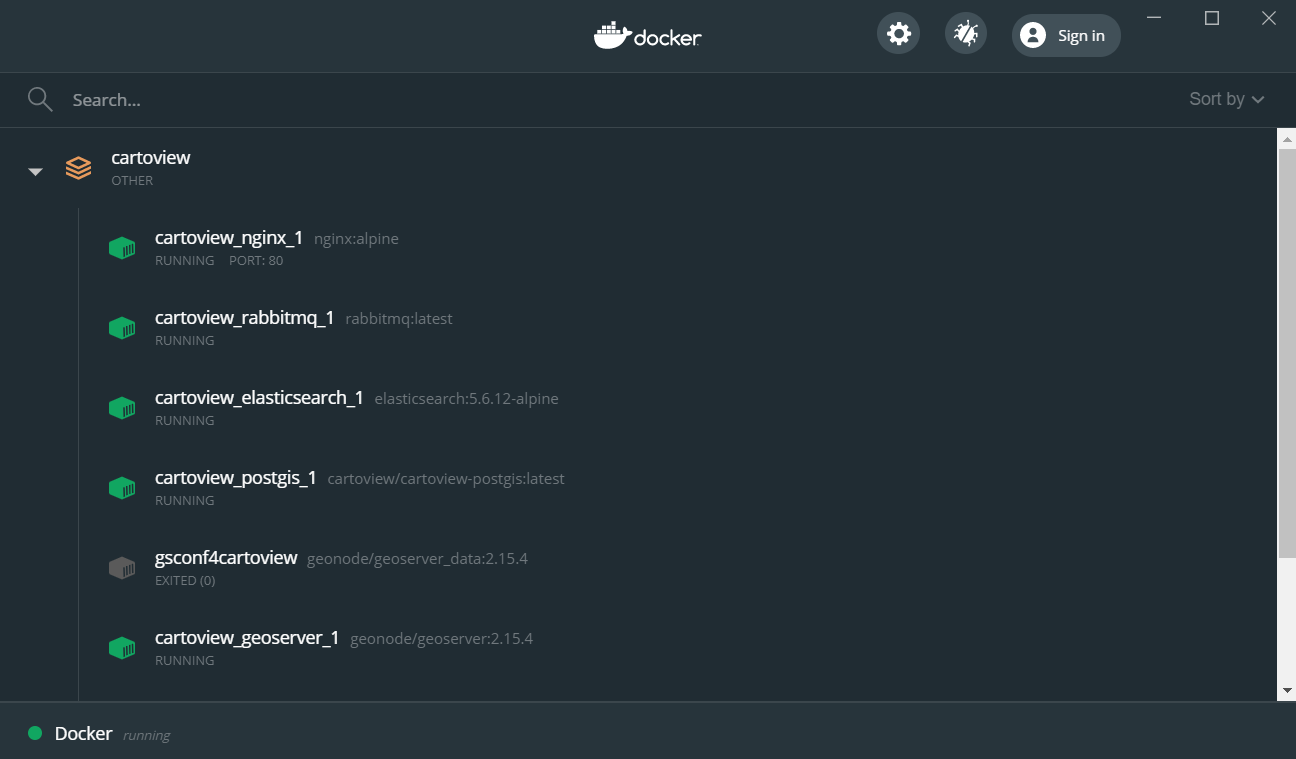
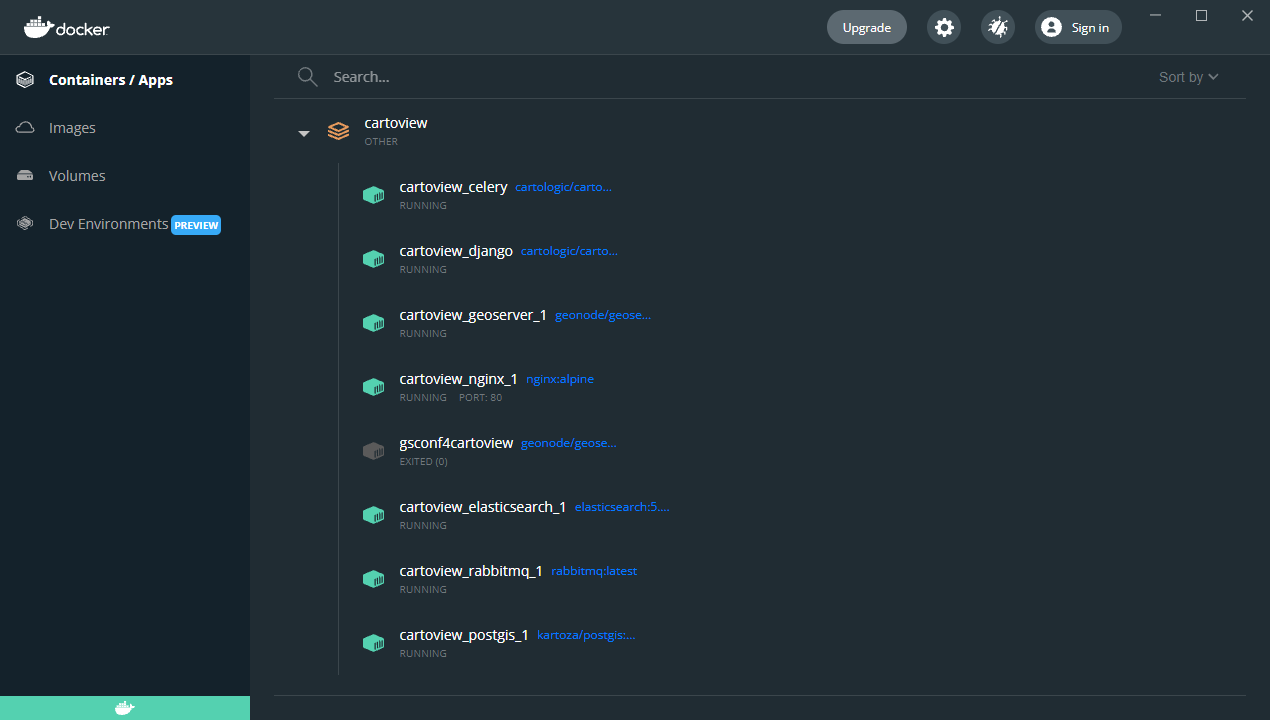
Update Docker installation guide for windows

diff --git a/docs/installation/docker.md b/docs/installation/docker.md
@@ -38,7 +38,7 @@ docker-compose --version
 Docker Desktop is an easy-to-install application for your Mac or Windows environment that enables you to build and share containerized applications and 
 microservices. Docker Desktop includes [Docker Engine](https://docs.docker.com/engine/), Docker CLI client, [Docker Compose](https://docs.docker.com/compose/), and many useful tools.
 
-Walk through this guide to download and install [Docker Desktop](https://docs.docker.com/desktop/windows/install/#install-docker-desktop-on-windows).
+Walk through this guide to download and install [Docker Desktop](https://docs.docker.com/desktop/windows/install/).
 
 Proceed with installation and leave everything as default.
 
@@ -54,13 +54,11 @@ When you see the Docker menu (A whale icon) in the taskbar stays steady, **Docke
     
 **Docker Dashboard** provides a useful interface to handle and control all the available containers easily. Please visit [Docker Desktop Dashboard](https://docs.docker.com/desktop/dashboard/) for more details.
 
-**Optional | Configure Docker Resources**
+#### Docker Configuration
 
-You may want to change the default resources given to Docker to speed up operations that will be done on the containers.
+Make sure that **Use Docker Compose V2** option is **unchecked** to avoid potential issues.
 
-Right-click on the whale icon, select **Settings**, navigate to **Resources** tab and change the resources as you wish.
-
-![Docker Resources](../img/installation/Docker/docker_resources.png)
+![Docker Configuration](../img/installation/Docker/compose_v2.png)
 
 ---
 
@@ -73,8 +71,16 @@ Download **cartoview-1.31.0** by cloning the repository and using the tag **v1.3
 git clone -b v1.31.0 https://github.com/cartologic/cartoview.git
 ```
 
-This will create a directory called ``cartoview``. Navigate inside it to install Cartoview using docker.
-    
+This will create a directory called ``cartoview``. Navigate inside it to install Cartoview with docker.
+
+Open `docker-compose.yml` and navigate to **cartoview** docker service and update as the following:
+```yaml
+# Change the line
+image: cartologic/cartoview:latest
+# With:
+image: cartologic/cartoview:1.31.0
+```
+
 ```shell
 cd cartoview
 docker-compose up -d
@@ -114,9 +120,19 @@ Also, you can see the logs by just ``double-click`` on ``cartoview``.
 ![Cartoview Logs](../img/installation/Docker/cartoview_logs.png)
 
 ### Migrate & Load default data
-We need to execute post-installation commands to make `cartoview` work properly after it's up and running. So we will open a terminal inside this service to execute these commands.
+We need to execute post-installation commands (e.g. migrations, collect static files, etc.) to make `cartoview` work properly after it's up and running. So we will open a terminal inside this service to execute these commands.
 
-If you have [Make](https://www.gnu.org/software/make/) installed on your machine, you can just use the Makefile available at cartoview directory.
+#### Use Make
+If you have [Make](https://www.gnu.org/software/make/) installed on your machine, you can just use the Makefile available at [cartoview](https://github.com/cartologic/cartoview/blob/v1.31.0/Makefile).
+
+!!! note
+    - For Windows, if you don't have Make, install it from [here](http://gnuwin32.sourceforge.net/packages/make.htm).
+    - Make sure to add `make.exe` path (e.g. C:\Program Files (x86)\GnuWin32\bin) to [PATH system variable](https://www.java.com/en/download/help/path.html). 
+
+!!! warning
+    For Windows:
+    - All the comments found at the **Makefile** should be removed to avoid any potential errors related to Make.
+    - Replace the Unix `sleep` command with Windows `timeout`.
 ```shell
 # This will go through the Makefile and execute the command called "run"
 make run
@@ -134,7 +150,7 @@ docker-compose exec cartoview bash
 ```
 
 #### For Windows:
-Open **Docker Dashboard** and for ``cartoview_cartoview_1`` container, click on the Cli button to open the terminal in which we will execute the below commands.
+Open **Docker Dashboard** and for ``cartoview_django`` container, click on the Cli button to open the terminal in which we will execute the below commands.
 
 ![Cartoview CLI](../img/installation/Docker/cartoview_cli.PNG)
 
@@ -192,11 +208,8 @@ In the browser, navigate to [http://10.5.0.4/](http://10.5.0.4/).
 !!! note
     Cartoview is running on **10.5.0.4** according to a pre-configured [external IP](https://github.com/cartologic/cartoview/blob/v1.31.0/docker-compose.yml#L111).
 
-**For Windows:**
-
-Open Docker Dashboard and for ``cartoview_nginx_1``container, click on ``Open in browser`` button to open Cartoview in the browser.
-
-![Cartoview open browser](../img/installation/Docker/cartoview_browser.PNG)
+!!! warning
+    Do Not run Cartoview on **localhost** as it's not configured to work on that.
 
 You should get:
 
